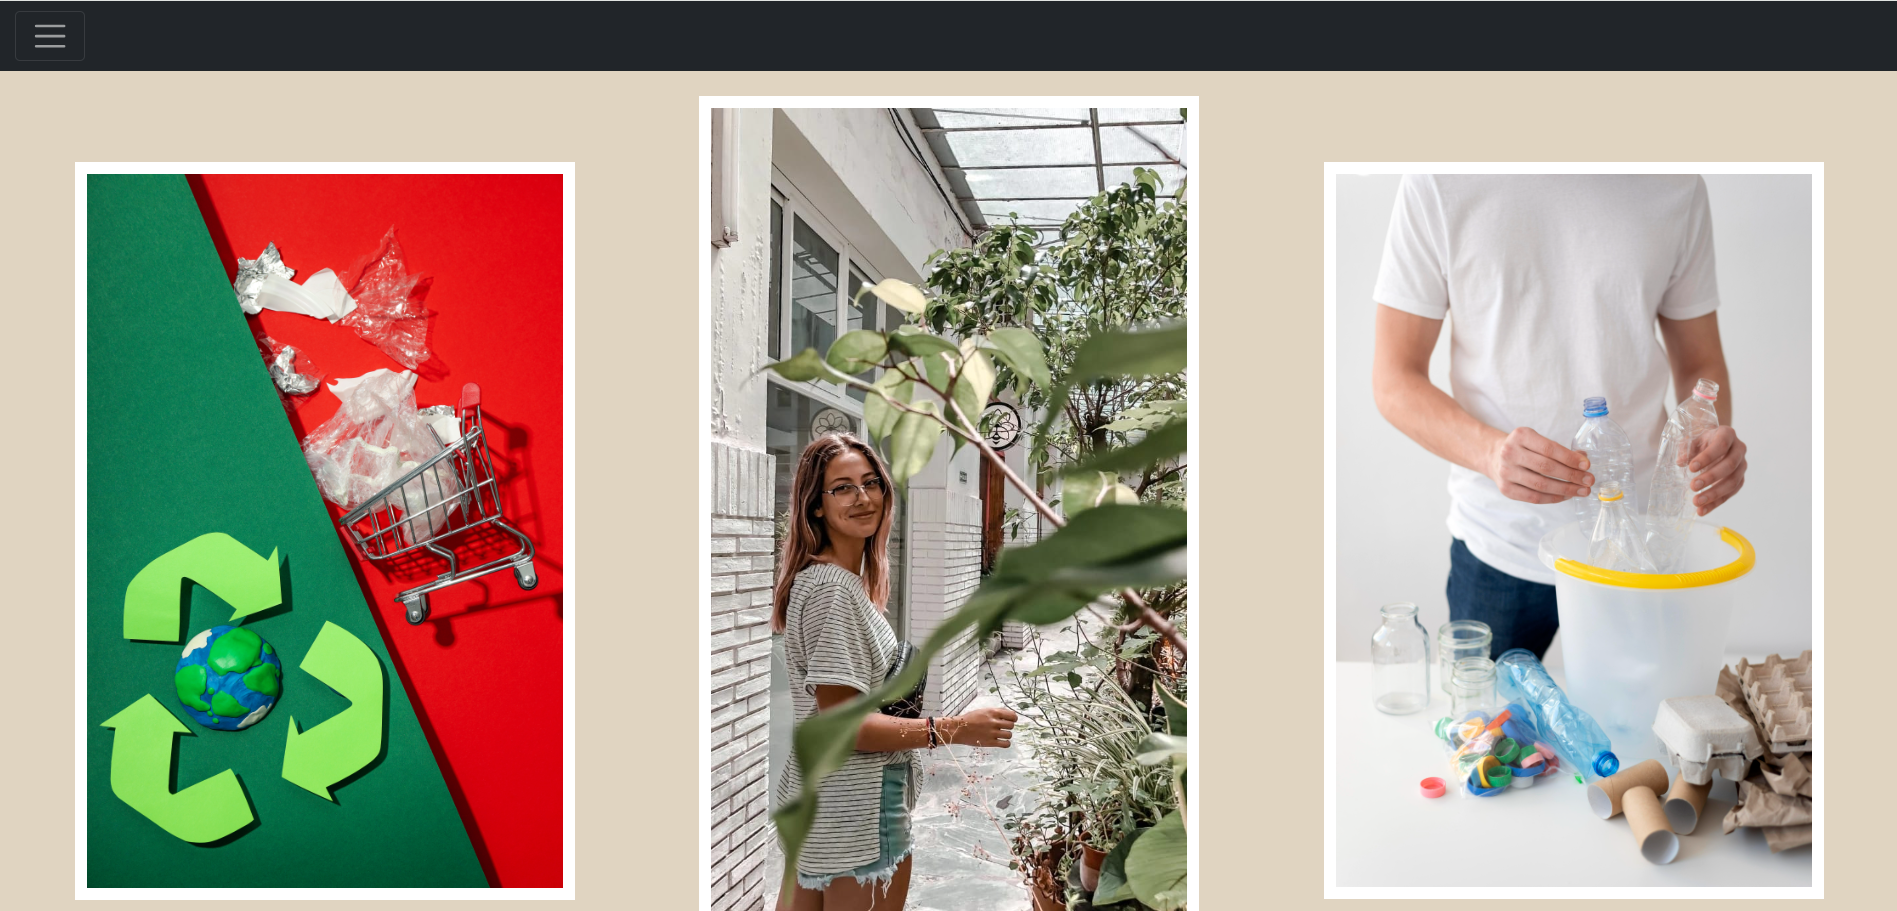
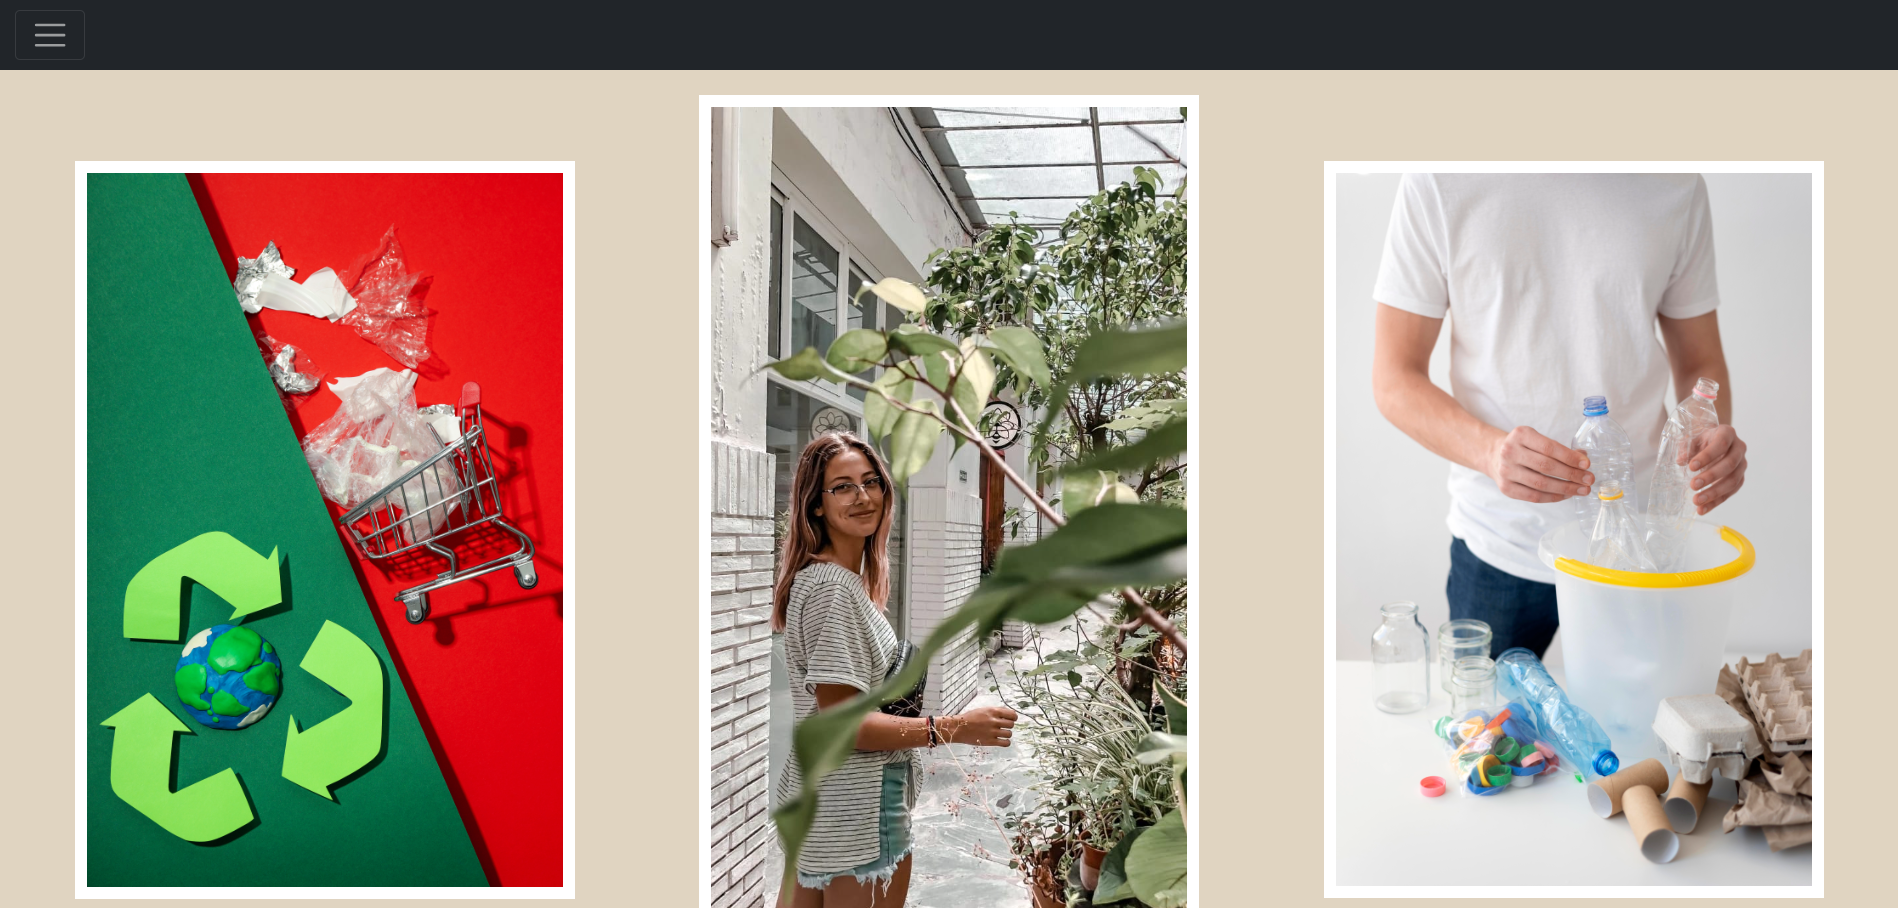
Changed styles and img

diff --git a/portfolio/src/components/Proyectos.jsx b/portfolio/src/components/Proyectos.jsx
@@ -9,17 +9,17 @@ const Proyectos = () => {
                 <div className={clases.proyectoDiv}>
                     <h3 className={clases.proyectoNombre}>Eco Cambios</h3>
                     <a className={clases.proyectoLinks} href="https://ecocambios.netlify.app/">Hace click aca para visitar el sitio!</a>
-                    <img src={ecoCambios} alt="" className={clases.proyectoImg}/>
+                    <a href="https://ecocambios.netlify.app/"><img src={ecoCambios} alt="" className={clases.proyectoImg}/></a>
                 </div>
                 <div className={clases.proyectoDiv}>
                     <h3 className={clases.proyectoNombre}>Mini Copito</h3>
                     <a className={clases.proyectoLinks} href="https://minicopito.netlify.app/">Hace click aca para visitar el sitio!</a>
-                    <img src={miniCopito} alt="" className={clases.proyectoImg}/>
+                    <a href="https://minicopito.netlify.app/"><img src={miniCopito} alt="" className={clases.proyectoImg}/></a>
                 </div>                
                 <div className={clases.proyectoDiv}>
                     <h3 className={clases.proyectoNombre}>Cafeteria</h3>
                     <a className={clases.proyectoLinks} href="https://modelocafe.netlify.app/">Hace click aca para visitar el sitio!</a>
-                    <img src={cafeteria} alt="" className={clases.proyectoImg}/>
+                    <a href="https://modelocafe.netlify.app/"><img src={cafeteria} alt="" className={clases.proyectoImg}/></a>
                 </div>
                 {/* <div className={clases.proyectoDiv}>
                     <h3 className={clases.proyectoNombre}>FutClothes</h3>

diff --git a/portfolio/index.html b/portfolio/index.html
@@ -1,15 +1,13 @@
-<!doctype html>
+<!DOCTYPE html>
 <html lang="en">
   <head>
     <meta charset="UTF-8" />
     <link rel="icon" type="image/svg+xml" href="./src/assets/Logo-AB.jpg" />
-    <link href="https://cdn.jsdelivr.net/npm/bootstrap@5.3.2/dist/css/bootstrap.min.css" rel="stylesheet" integrity="sha384-T3c6CoIi6uLrA9TneNEoa7RxnatzjcDSCmG1MXxSR1GAsXEV/Dwwykc2MPK8M2HN" crossorigin="anonymous">
     <meta name="viewport" content="width=device-width, initial-scale=1.0" />
     <title>Mi Portfolio</title>
   </head>
   <body>
     <div id="root"></div>
-    <script src="https://cdn.jsdelivr.net/npm/bootstrap@5.3.2/dist/js/bootstrap.bundle.min.js" integrity="sha384-C6RzsynM9kWDrMNeT87bh95OGNyZPhcTNXj1NW7RuBCsyN/o0jlpcV8Qyq46cDfL" crossorigin="anonymous"></script>
     <script type="module" src="/src/main.jsx"></script>
   </body>
 </html>

diff --git a/portfolio/src/styles/Proyectos.module.css b/portfolio/src/styles/Proyectos.module.css
@@ -23,6 +23,12 @@
 .proyectoImg{
     width: 400px;
     margin-top: 10px;
+    border-radius: 5px;
+}
+
+.proyectoImg:hover{
+    box-shadow: 6px 7px 17px 0px rgb(179, 169, 169);
+    transition: all 0.6s ease;
 }
 
 .proyectoLinks{
@@ -36,10 +42,14 @@
     }
 
     .proyectoImg{
-        width: 253px;
+        width: 240px;
     }
 
     .proyectoLinks{
         font-size: small;
+    }
+
+    .proyectoDiv{
+        width: 240px;
     }
 }
